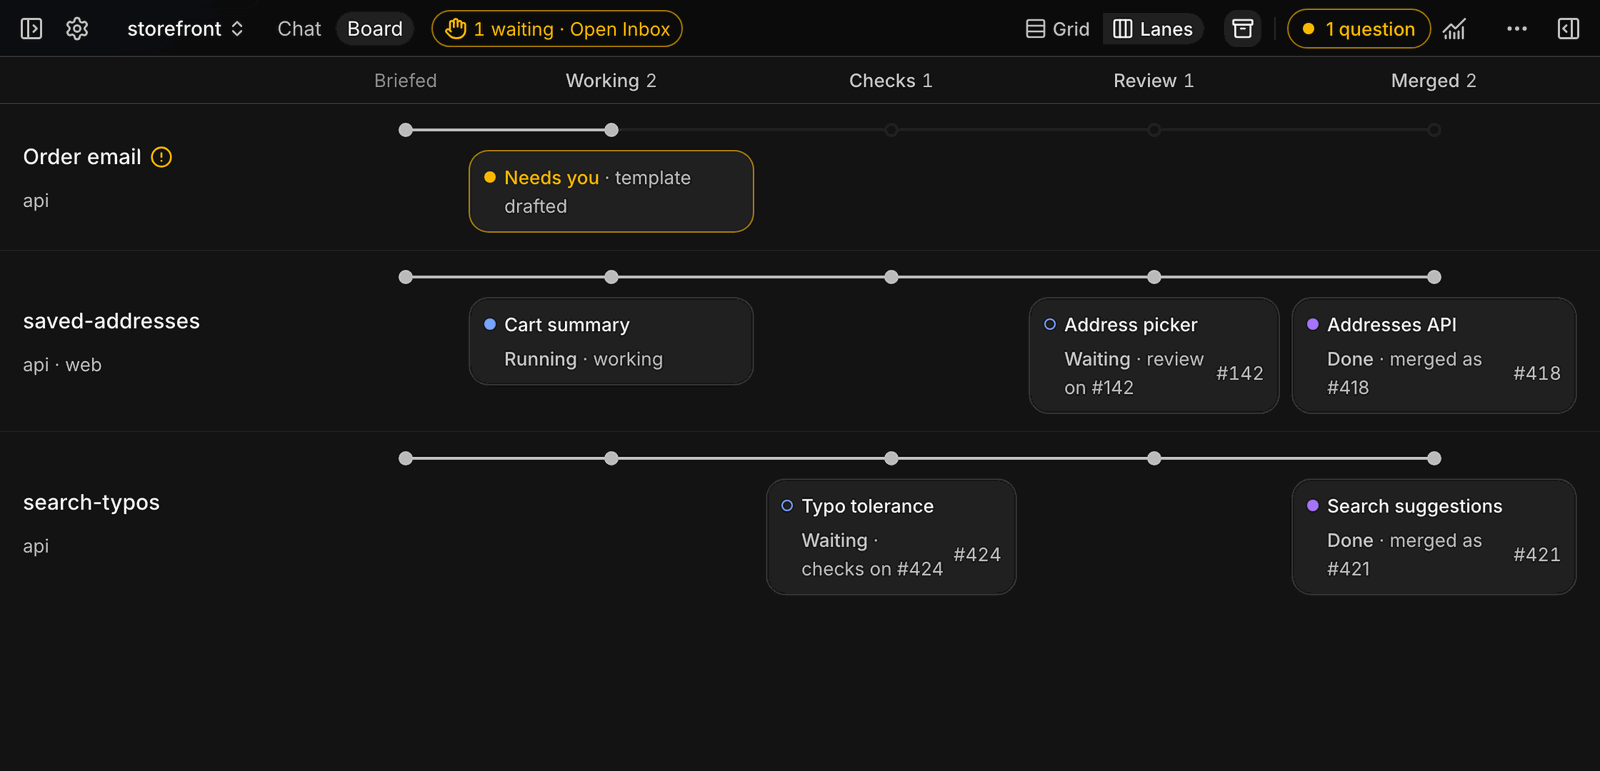
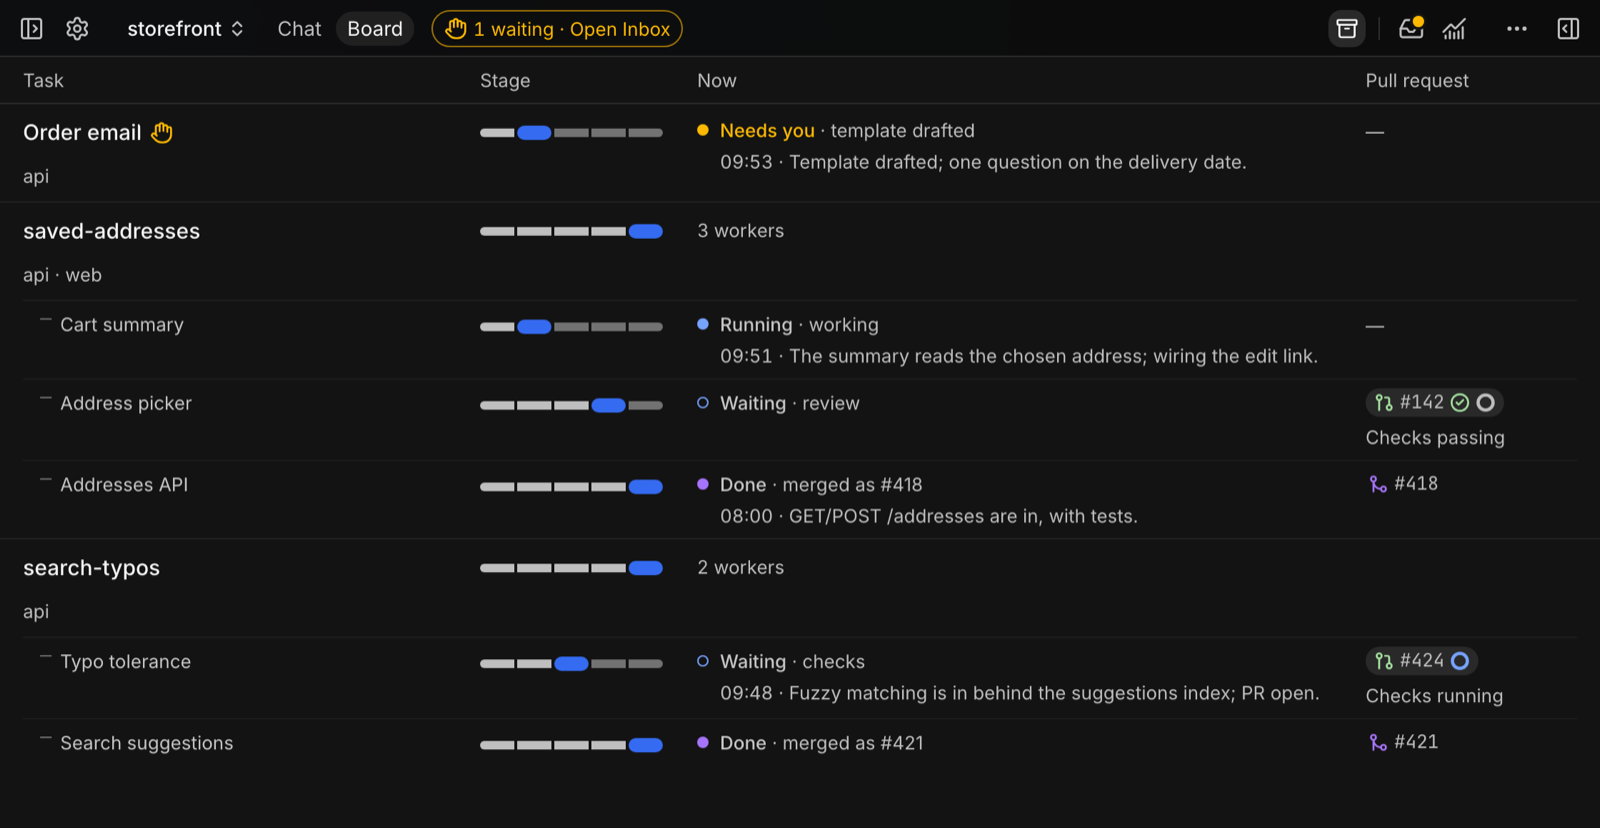
docs: the README's Board image shows the grid
readme-board no longer picks Lanes and is tall enough for the grid's
rows; docs/assets/gram-board.png is retaken from it.

diff --git a/apps/web/pr-shots/shots.ts b/apps/web/pr-shots/shots.ts
@@ -3167,14 +3167,15 @@ export const SHOTS: readonly Shot[] = [
     title: "README: `storefront` on the Board",
     modes: ["dark"],
     open: async (page) => {
-      // Narrow and without the sidebar, which the hero shows, so the rows read at README width.
-      await openReadme(page, 1120, 540);
+      // Narrow and without the sidebar, which the hero shows, so the rows read at README width;
+      // tall enough for the grid's every row.
+      await openReadme(page, 1120, 580);
       await page.getByRole("button", { name: "Hide sidebar" }).click();
       await openBoardView(page);
       // The merged workers too, so the grid runs from briefed to merged.
       await page.getByTestId("rail-show-archived").click();
       await page.getByTestId("rail-worker").first().waitFor();
-      await page.mouse.move(1116, 536);
+      await page.mouse.move(1116, 576);
       await page.waitForTimeout(800);
     },
   },

diff --git a/README.md b/README.md
@@ -92,7 +92,7 @@ its title opens that memory to read or edit.
   the last 7 or 30 days.
 - **The Board.** Each feature's workers and pull requests on one line, from briefed to merged.
 
-![Gram's Board in its Lanes layout: three features as rows, each a lane through the stations Briefed, Working, Checks, Review and Merged. Each worker is a card at its station: one needs you, one is running, one waits on checks, one waits on review and two are done, merged. The title bar reads 1 waiting · Open Inbox and 1 question.](docs/assets/gram-board.png)
+![Gram's Board as a grid with the columns Task, Stage, Now and Pull request. Three features are rows: Order email needs you, its template drafted; saved-addresses heads its three workers, Cart summary running, Address picker waiting on review of #142 and Addresses API merged as #418; search-typos heads Typo tolerance waiting on checks for #424 and Search suggestions merged as #421. Each row's stage is a bar through briefed to merged. The title bar reads 1 waiting · Open Inbox](docs/assets/gram-board.png)
 
 The Inbox opens over your work, so you can answer without leaving your place.
 
